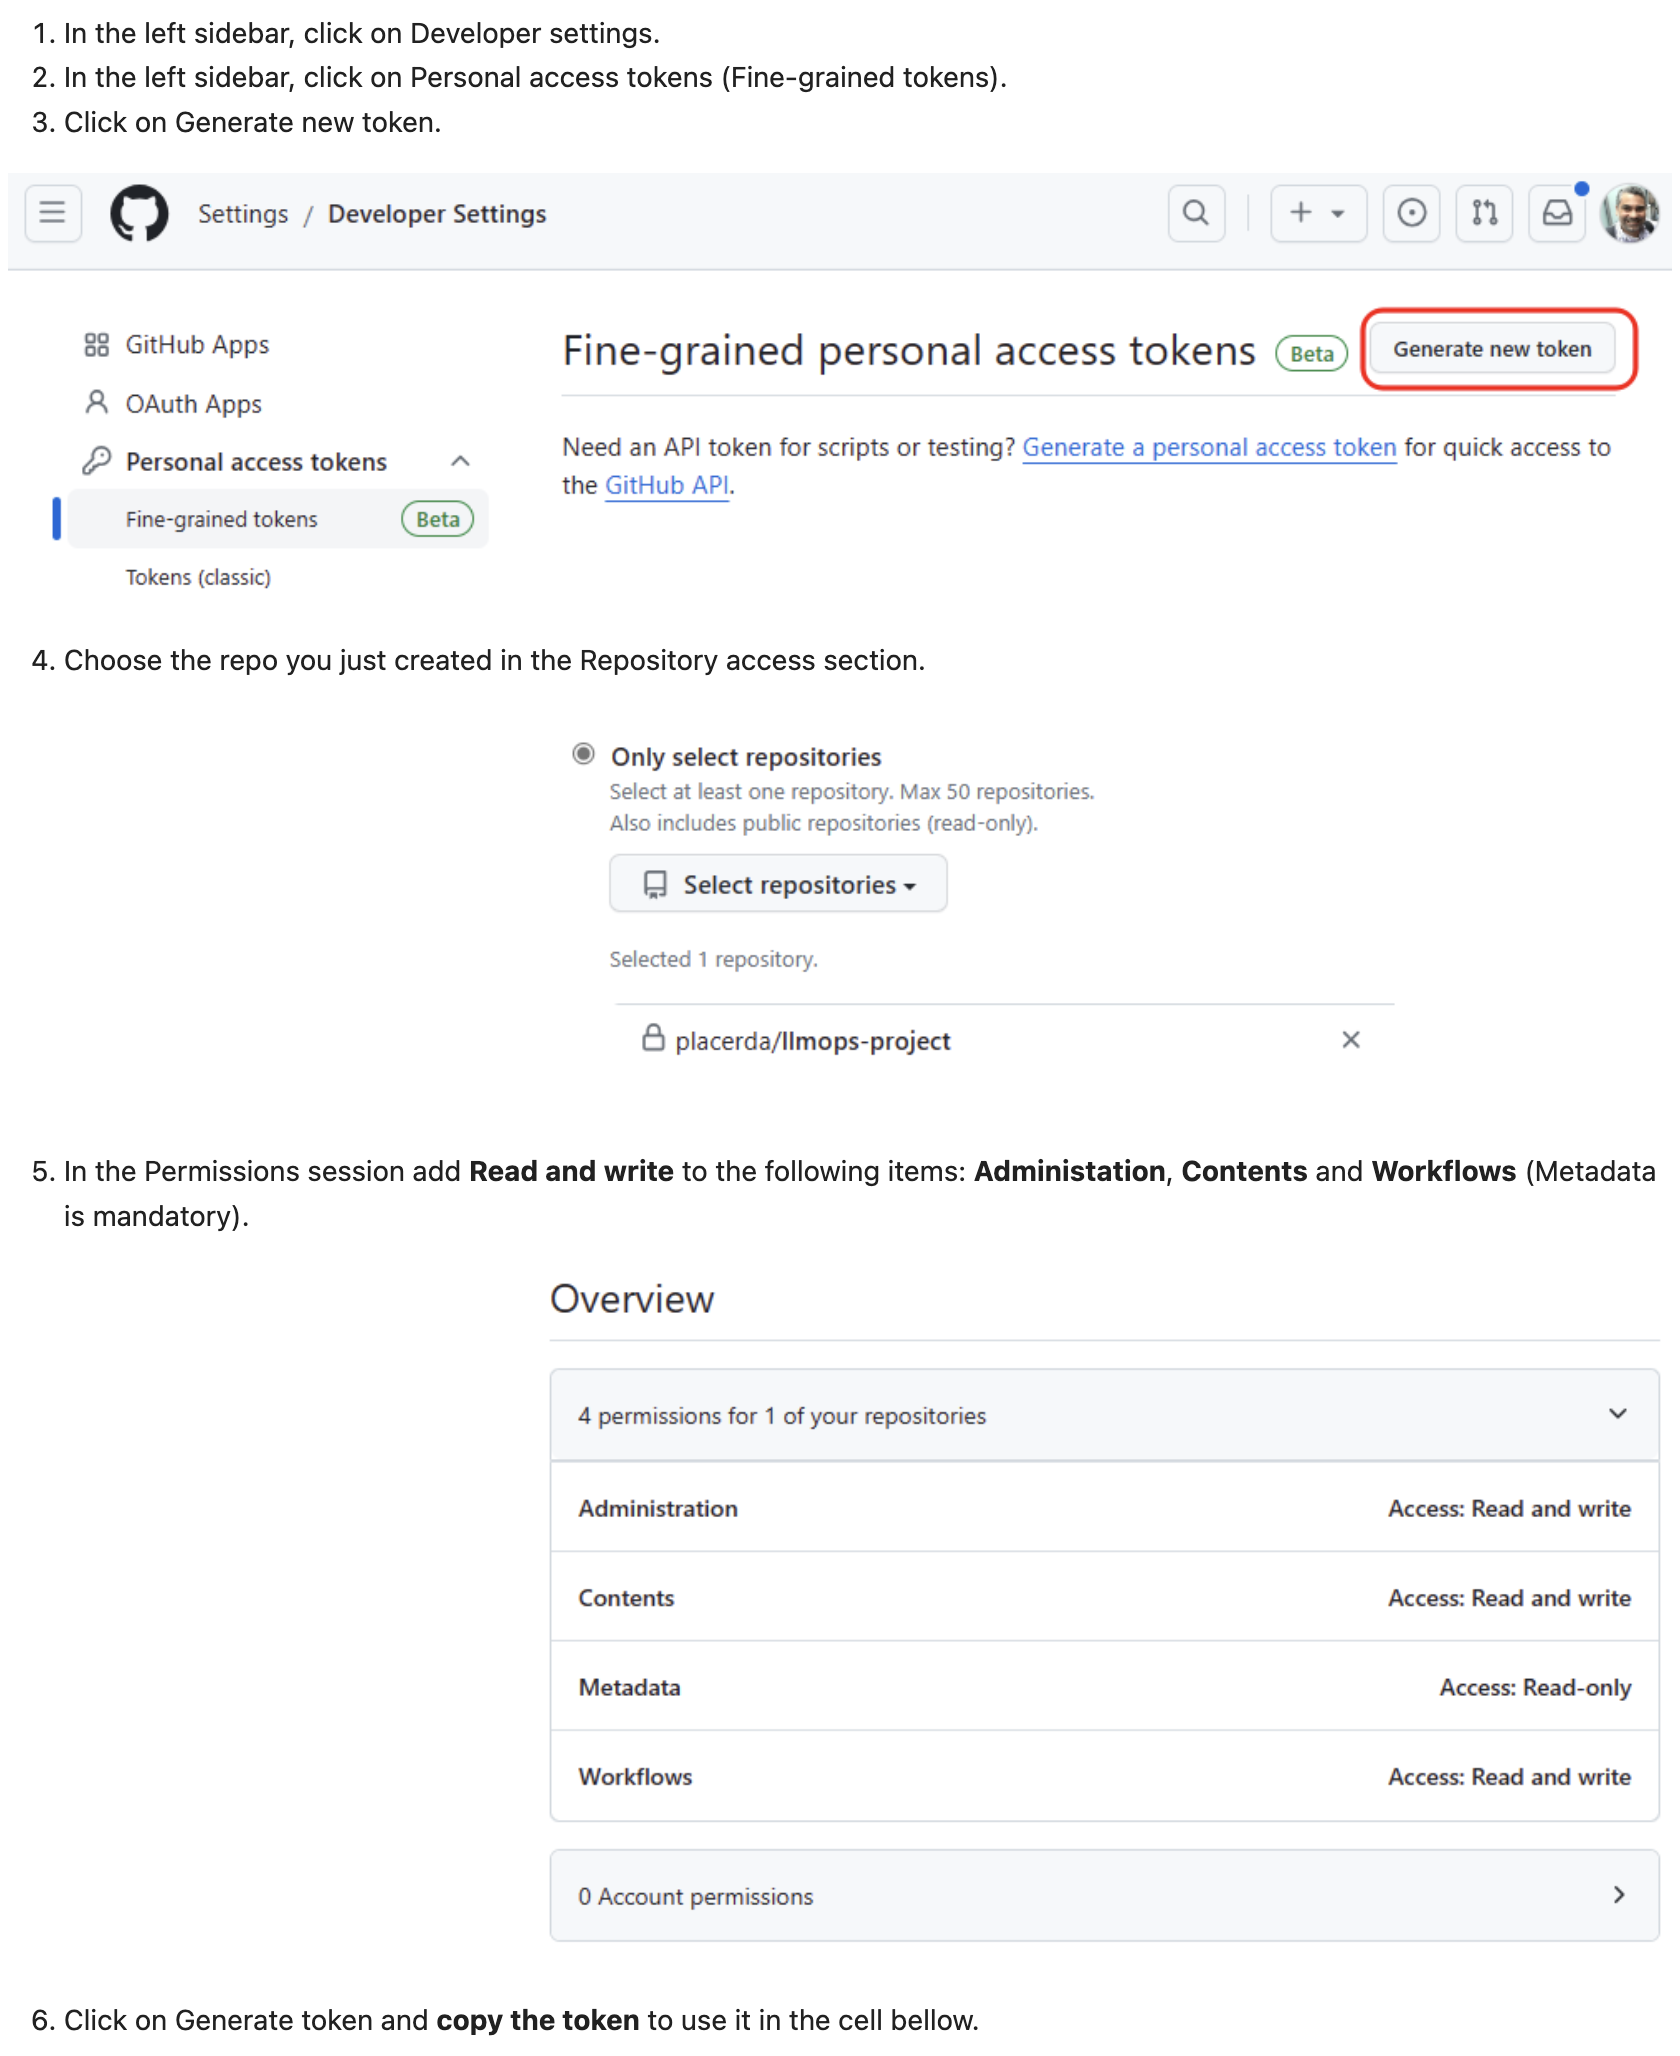
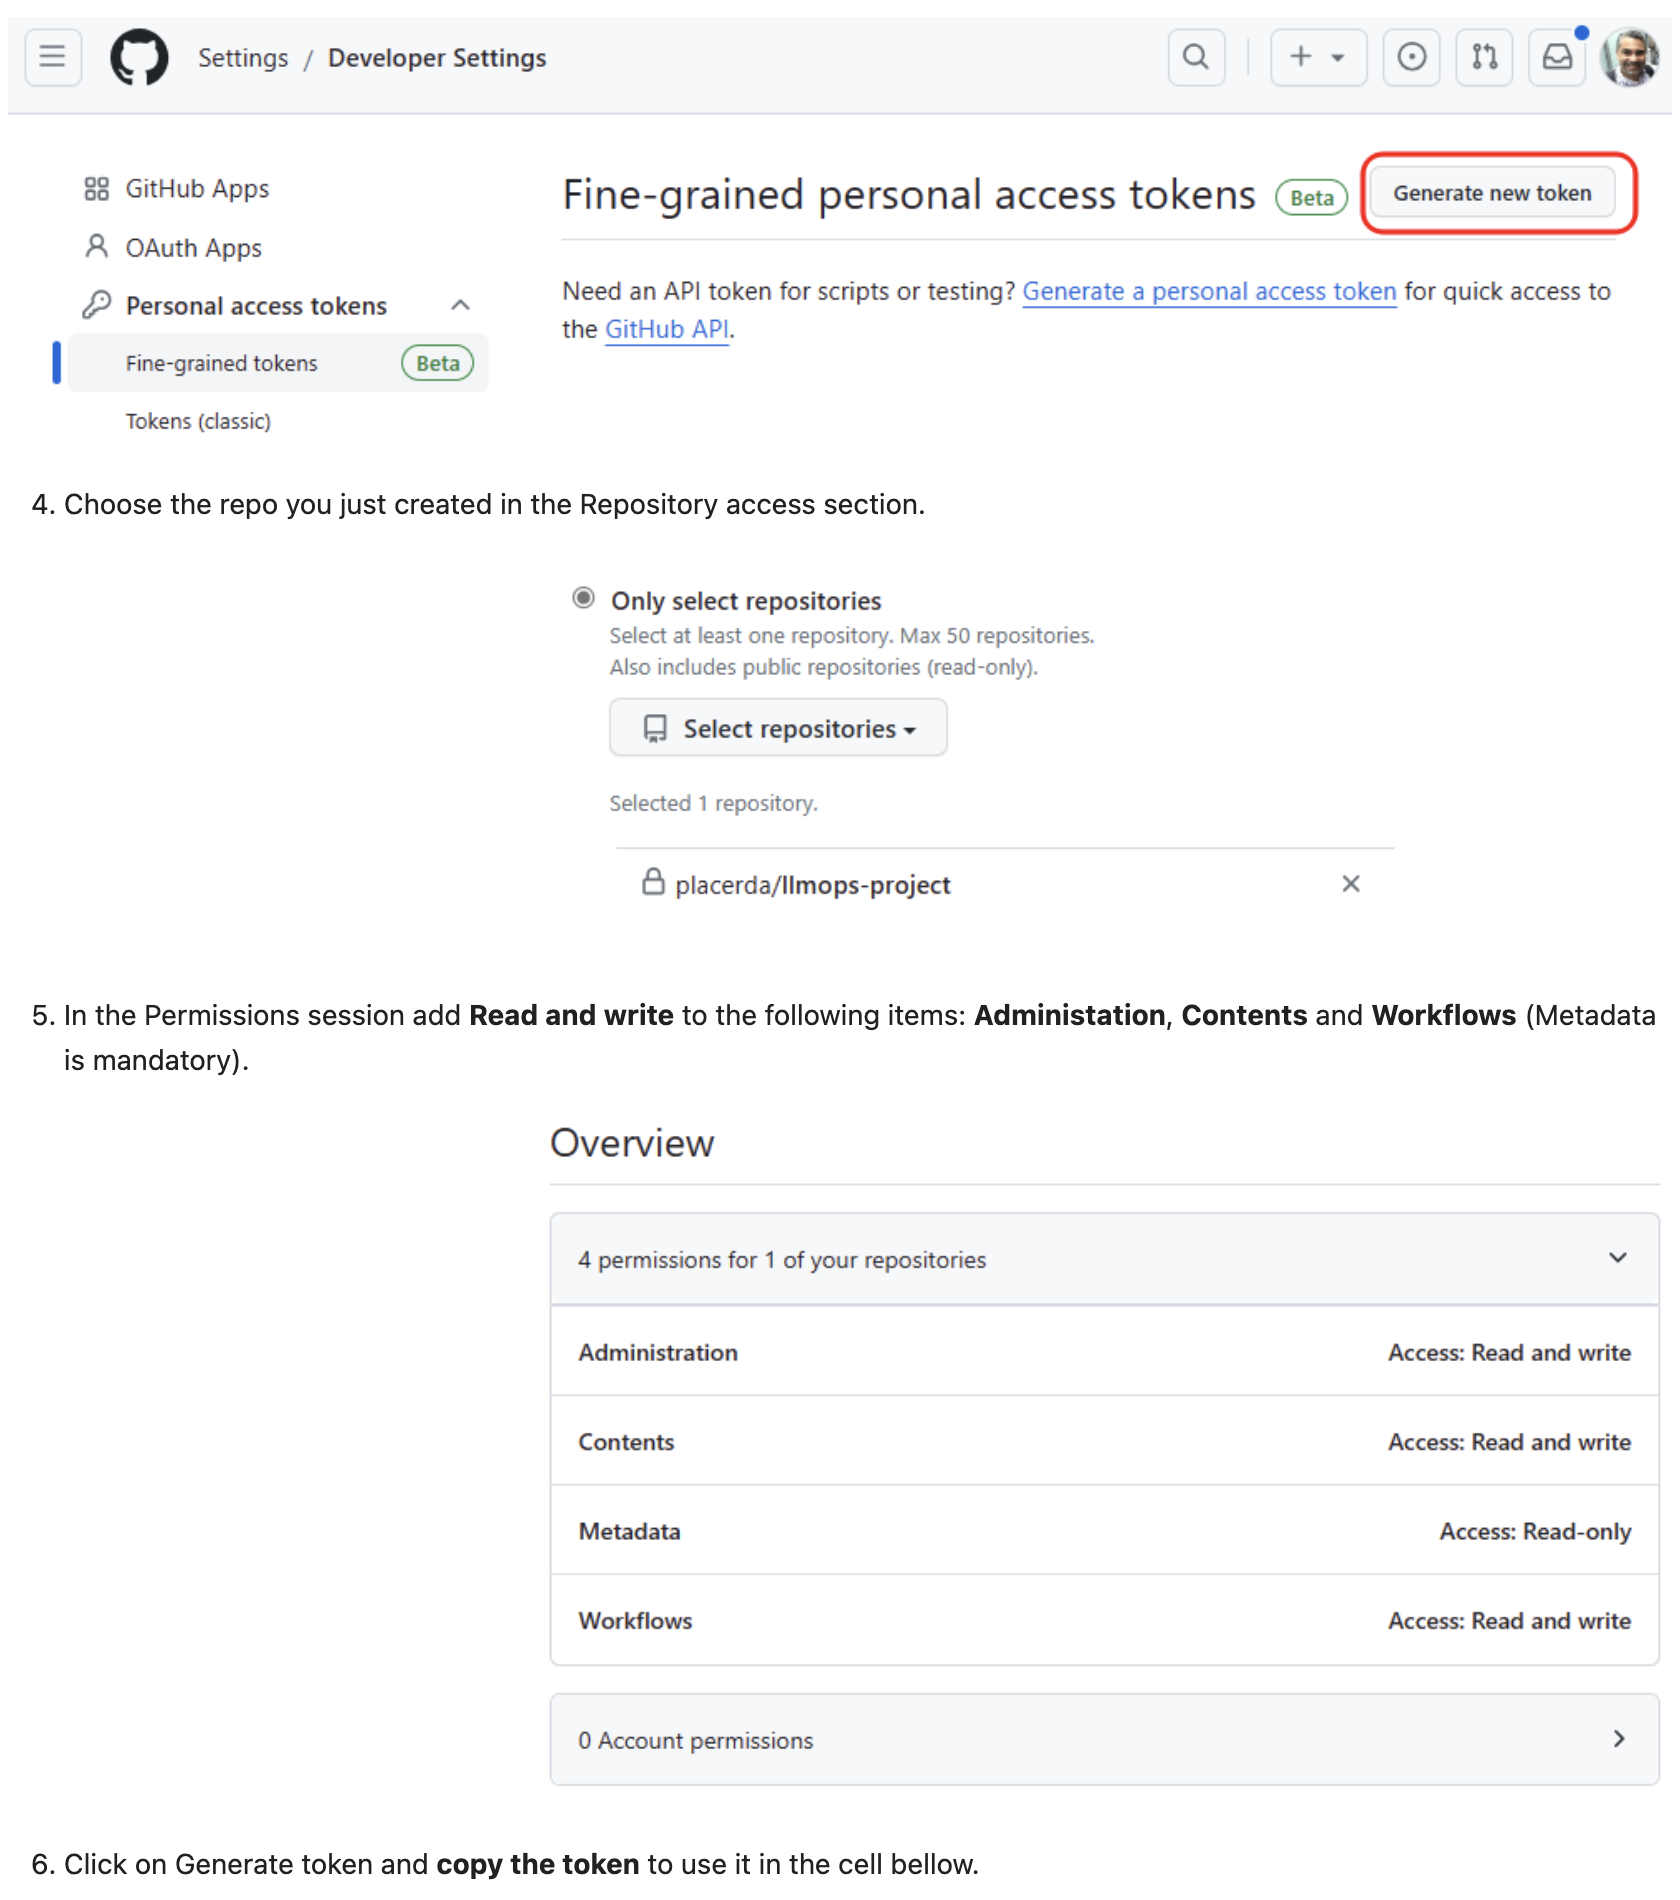
Update steps and screenshot

diff --git a/docs/06_automating_everything/06_01.md b/docs/06_automating_everything/06_01.md
@@ -91,23 +91,27 @@ This is the information to be used for GitHub actions to authenticate in Azure.
 
 ##### 3) Set up GitHub Repository
 
-1. Go to GitHub and create a new repository
+1. Go to GitHub and create a new repository.
 
     ![LLMOps Workshop](images/lab6grab2.png)
 
-    Let's use **llmops-project** as the repo name for this workshop, if you chose a different repo name, you can replace llmops-project with the name you have chosen whenever you see it in the lab commands.
+    Let's use **llmops-project** as the repo name for this workshop, if you chose a different repo name, you can replace **llmops-project** with the name you have chosen whenever you see it in the lab commands.
 
     ![LLMOps Workshop](images/lab6grab3.png)
 
-2. Create a GitHub personal access token
+2. Create a GitHub personal access token.
 
-    Now you will create a Github personal access token to work with your repository from this notebook.
+    Now you will create a Github personal access token to work with your repository from this lab.
 
-    Go to your GitHub account settings by clicking on your profile photo and then clicking on Settings and execute the following steps:
+    Go to your GitHub account settings by selecting your profile photo and then selecting Settings. Execute the following steps:
 
-    ![LLMOps Workshop](images/lab6grab4.png)
+    1. In the left sidebar, select Developer settings.
+    2. In the left sidebar, select Personal access tokens (Fine-grainded tokens).
+    3. Select **Generate new token**.
 
-3. Populate your repo with the LLMOps project template
+    ![The Generate new token button is highlighted.](images/lab6grab4.png)
+
+3. Populate your repo with the LLMOps project template.
 
     Now you will populate your new repo with the LLMOps Prompt Flow Template Repo.
 
@@ -136,7 +140,7 @@ This is the information to be used for GitHub actions to authenticate in Azure.
     git push origin main
     ```
 
-4. Create a development branch and set it as default
+4. Create a development branch and set it as default.
 
     The project template assumes that the team utilizes the development branch as the primary source for coding and enhancing the prompt quality.
 
@@ -160,7 +164,7 @@ This is the information to be used for GitHub actions to authenticate in Azure.
 
     ![LLMOps Workshop](images/lab6grab5.png)
 
-5. Set up authentication with Azure and Github
+5. Set up authentication with Azure and Github.
 
     To start, go to the **Settings** tab of your GitHub project. Then, navigate to **Secrets and variables** followed by **Actions** and select **New repository secret**.
 
@@ -186,7 +190,7 @@ This is the information to be used for GitHub actions to authenticate in Azure.
 
     ![LLMOps Workshop](images/lab6grab10.png)
 
-2. Update Azure OpenAI connection name
+2. Update Azure OpenAI connection name.
 
     LLMOps with Prompt flow project template example flows use an Azure OpenAI connection named `aoai`, in this hands on we will use AI Project's default Azure OpenAI connection.
 
@@ -220,7 +224,7 @@ The **LLMOps with Prompt Flow** template repo include three example use cases, w
 In this step, you will configure the name_entity_recognition flow's LLMOps and deployment parameters. After that we will be able
 to create a pull request for this example.
 
-1. Update flow's llmops parameters
+1. Update flow's llmops parameters.
 
     The file **llmops_config.json** contains information related to the resources and directories used in each environment.
 
@@ -234,7 +238,7 @@ to create a pull request for this example.
 
     ![LLMOps Workshop](images/lab6grab11.png)
 
-2. Update flow's deployment parameters
+2. Update flow's deployment parameters.
 
     The file **deployment_config.json** contains information related to the solution deployment.
 
@@ -252,15 +256,15 @@ to create a pull request for this example.
 
     ![LLMOps Workshop](images/lab6grab11.png)
 
-3. Push updates to remote repo
+3. Push updates to remote repo.
 
-To update the remote repository with the newly modified configurations, simply update the project repo name in **<github_repository>** and then push to the **development** branch by executing the next cell.
+    To update the remote repository with the newly modified configurations, simply update the project repo name in **<github_repository>** and then push to the **development** branch by executing the next cell.
 
-```bash
-cd llmops-project
-git add .
-git commit -m "configuration update"
-git push origin development
-```
+    ```bash
+    cd llmops-project
+    git add .
+    git commit -m "configuration update"
+    git push origin development
+    ```
 
 </details>
